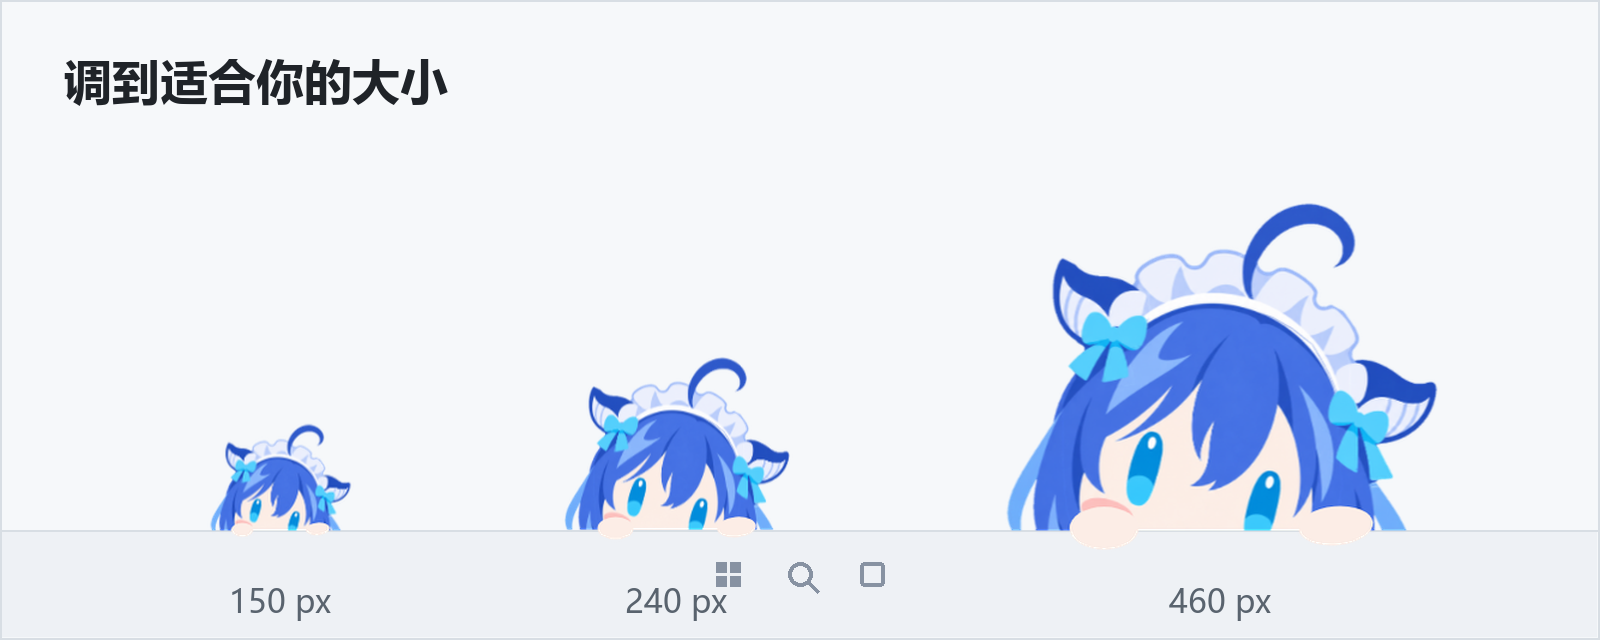
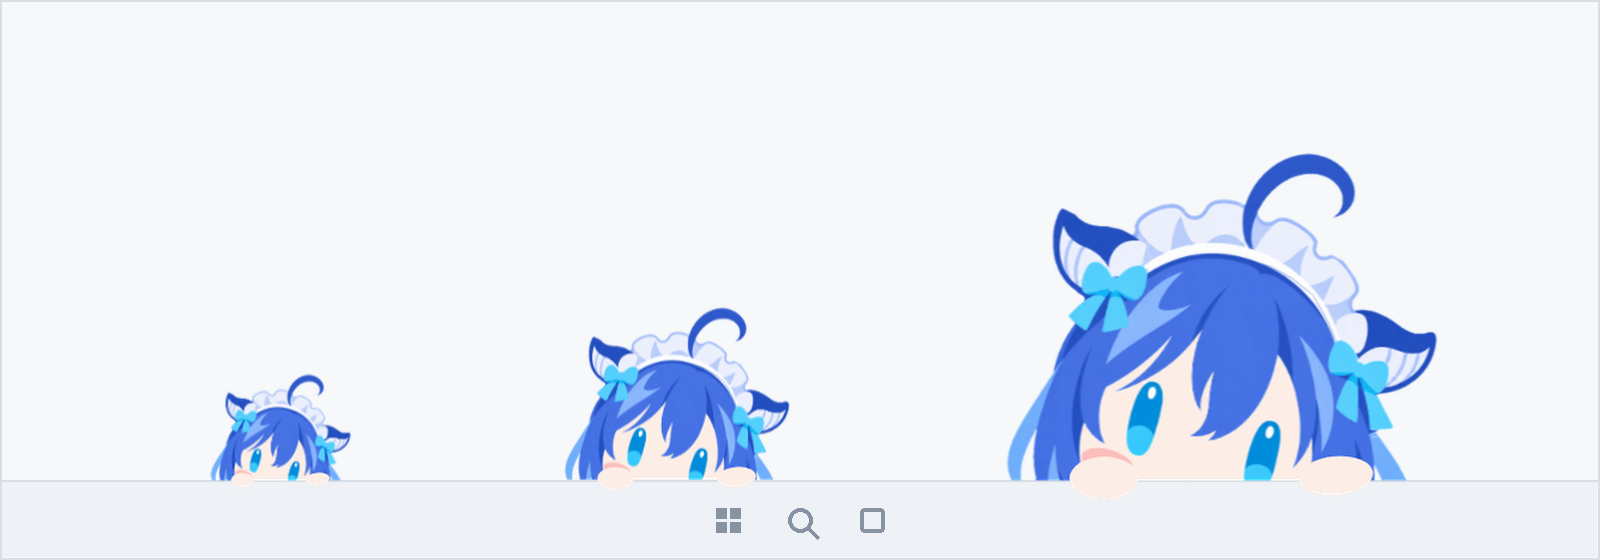
Remove explanatory overlays and simplify the README into a visual gallery

diff --git a/tools/docs/compose-readme.py b/tools/docs/compose-readme.py
@@ -1,110 +1,67 @@
-"""Compose README media from capture-readme.cjs; real renders, one visual grid."""
+"""Compose text-free README visuals from real application frames."""
 from pathlib import Path
 import json, shutil, sys
-from PIL import Image, ImageDraw, ImageFont
-ROOT=Path(__file__).resolve().parents[2]
-RAW=ROOT/'tools/docs/.work/readme-v2'
-BUILD=RAW/'build';BUILD.mkdir(parents=True,exist_ok=True)
-META=json.loads((RAW/'manifest.json').read_text(encoding='utf8'))
-L=Image.Resampling.LANCZOS
-BG='#f6f8fa';INK='#1f2328';MUTED='#59636e';EDGE='#d8dee4';BAR='#eef1f5'
-FONTS={}
-def font(size,bold=False):
- key=(size,bold)
- if key not in FONTS:FONTS[key]=ImageFont.truetype('C:/Windows/Fonts/'+('msyhbd.ttc' if bold else 'msyh.ttc'),size)
- return FONTS[key]
+from PIL import Image, ImageDraw
+ROOT=Path(__file__).resolve().parents[2];RAW=ROOT/'tools/docs/.work/readme-v2';BUILD=RAW/'build';BUILD.mkdir(parents=True,exist_ok=True)
+META=json.loads((RAW/'manifest.json').read_text(encoding='utf8'));L=Image.Resampling.LANCZOS
+BG='#f6f8fa';EDGE='#d8dee4';BAR='#eef1f5'
 def card(height,scale=1):
- im=Image.new('RGB',(800*scale,height*scale),BG)
- ImageDraw.Draw(im).rectangle((0,0,800*scale-1,height*scale-1),outline=EDGE,width=scale)
- return im
-def text(im,xy,value,size=24,bold=False,scale=1,fill=INK,anchor='la'):
- ImageDraw.Draw(im).text(tuple(round(x*scale) for x in xy),value,font=font(size*scale,bold),fill=fill,anchor=anchor)
+ im=Image.new('RGB',(800*scale,height*scale),BG);ImageDraw.Draw(im).rectangle((0,0,800*scale-1,height*scale-1),outline=EDGE,width=scale);return im
 def taskbar(im,top,scale=1):
- d=ImageDraw.Draw(im);w,h=im.size;y=round(top*scale)
- d.rectangle((scale,y,w-2*scale,h-2*scale),fill=BAR);d.line((scale,y,w-scale,y),fill=EDGE,width=scale)
- cx,cy=400*scale,y+22*scale
- # Restrained taskbar landmarks; leave the character and paws unobstructed.
- for ox in [-36,0,36]:
-  x=cx+ox*scale;r=6*scale
-  if ox==-36:
+ d=ImageDraw.Draw(im);w,h=im.size;y=round(top*scale);d.rectangle((scale,y,w-2*scale,h-2*scale),fill=BAR);d.line((scale,y,w-scale,y),fill=EDGE,width=scale)
+ for offset in [-36,0,36]:
+  x,yc=400*scale+offset*scale,y+20*scale;r=6*scale
+  if offset==-36:
    for dx in [-r,scale]:
-    for dy in [-r,scale]:d.rectangle((x+dx,cy+dy,x+dx+5*scale,cy+dy+5*scale),fill='#8792a2')
-  elif ox==0:
-   d.ellipse((x-r,cy-r,x+r,cy+r),outline='#8792a2',width=2*scale);d.line((x+4*scale,cy+4*scale,x+9*scale,cy+9*scale),fill='#8792a2',width=2*scale)
-  else:d.rounded_rectangle((x-r,cy-r,x+r,cy+r),radius=2*scale,outline='#8792a2',width=2*scale)
-def raw(record):
- im=Image.open(RAW/record['file']).convert('RGBA')
- return im.resize((record.get('width',420),record.get('height',420)),L)
+    for dy in [-r,scale]:d.rectangle((x+dx,yc+dy,x+dx+5*scale,yc+dy+5*scale),fill='#8792a2')
+  elif offset==0:d.ellipse((x-r,yc-r,x+r,yc+r),outline='#8792a2',width=2*scale);d.line((x+4*scale,yc+4*scale,x+9*scale,yc+9*scale),fill='#8792a2',width=2*scale)
+  else:d.rounded_rectangle((x-r,yc-r,x+r,yc+r),radius=2*scale,outline='#8792a2',width=2*scale)
+def raw(rec):return Image.open(RAW/rec['file']).convert('RGBA').resize((rec.get('width',420),rec.get('height',420)),L)
 def paste(im,source,xy,size=None):
  if size:source=source.resize(tuple(round(v) for v in size),L)
  im.paste(source,tuple(round(v) for v in xy),source)
-def cursor(im,x,y):
- d=ImageDraw.Draw(im);points=[(x,y),(x,y+18),(x+5,y+13),(x+8,y+20),(x+12,y+18),(x+9,y+11),(x+16,y+11)]
- d.polygon(points,fill=INK,outline='white',width=2)
+def cursor(im,x,y,click=None):
+ d=ImageDraw.Draw(im)
+ if click is not None:
+  radius=5+click*15;d.ellipse((x-radius,y-radius,x+radius,y+radius),outline='#6083dc',width=2)
+ d.polygon([(x,y),(x,y+18),(x+5,y+13),(x+8,y+20),(x+12,y+18),(x+9,y+11),(x+16,y+11)],fill='#1f2328',outline='white',width=2)
 def gif(frames,durations,name):
- # Shared palette prevents color flicker; a flat backdrop keeps animation compact.
  samples=[]
  for i in range(0,len(frames),max(1,len(frames)//12)):
-  f=frames[i].copy();f.thumbnail((400,180));samples.append(f)
- reference=Image.new('RGB',(400,180*len(samples)),BG)
- for i,f in enumerate(samples):reference.paste(f,(0,i*180))
- palette=reference.quantize(colors=255,method=Image.Quantize.MEDIANCUT)
- frames=[im.quantize(palette=palette,dither=Image.Dither.NONE) for im in frames]
+  im=frames[i].copy();im.thumbnail((400,180));samples.append(im)
+ ref=Image.new('RGB',(400,180*len(samples)),BG)
+ for i,im in enumerate(samples):ref.paste(im,(0,i*180))
+ palette=ref.quantize(colors=255,method=Image.Quantize.MEDIANCUT);frames=[im.quantize(palette=palette,dither=Image.Dither.NONE) for im in frames]
  frames[0].save(BUILD/name,save_all=True,append_images=frames[1:],duration=durations,loop=0,optimize=True,disposal=1)
  print(name,(BUILD/name).stat().st_size//1024,'KB',len(frames),'frames')
-def hero():
- clip=META['clips']['hero'];frames=[]
+def scene_clip(key,name):
+ clip=META['clips'][key];frames=[]
  for frame in clip['frames']:
-  im=card(320);taskbar(im,280)
-  pet=Image.open(RAW/frame['file']).convert('RGBA').resize((clip['width'],clip['height']),L)
-  paste(im,pet,(0,280-clip['ledge']))
-  text(im,(32,24),'跟随鼠标，轻轻挪动',26,True)
-  text(im,(32,66),'目光跟随 · 小手挪动 · 任务栏贴边',15,fill=MUTED)
-  cursor(im,round(frame['x']),round(frame['y']+280-clip['ledge']))
-  frames.append(im)
- gif(frames,[r['duration'] for r in clip['frames']],'hero.gif')
+  im=card(280);taskbar(im,240);source=raw({**clip,**frame});paste(im,source,(0,240-clip['ledge']));cursor(im,round(frame['x']),round(frame['y']+240-clip['ledge']),frame.get('click'));frames.append(im)
+ gif(frames,[f['duration'] for f in clip['frames']],name)
 def petting():
- frames=[];names=[('sleepy','放松闭眼','20%'),('playful','开心晃头','50%'),('subtle','轻轻回应','30%')]
+ frames=[]
  for n in range(100):
-  im=card(340);d=ImageDraw.Draw(im)
-  for i,(key,label,chance) in enumerate(names):
-   x=i*800/3
-   if i:d.line((round(x),28,round(x),312),fill=EDGE,width=1)
-   text(im,(x+32,24),label,22,True);text(im,(x+32,61),chance,16,fill=MUTED)
-   source=raw({**META['clips'][key],**META['clips'][key]['frames'][n]})
-   paste(im,source,(x+17,88),(232,232))
+  im=card(280)
+  for i,key in enumerate(['sleepy','playful','subtle']):paste(im,raw({**META['clips'][key],**META['clips'][key]['frames'][n]}),(i*800/3+5,8),(256,256))
   frames.append(im)
- gif(frames,[90]*len(frames),'petting.gif')
+ gif(frames,[90]*100,'petting.gif')
 def sleeping():
- S=2;im=card(340,S);taskbar(im,290,S);d=ImageDraw.Draw(im);d.line((400*S,28*S,400*S,270*S),fill=EDGE,width=S)
- for i,(key,label,desc) in enumerate([('droop','萎靡','停止注视，耳朵耷拉'),('sleep','睡眠','闭眼趴低，双手不动')]):
-  text(im,(i*400+32,24),label,24,True,S);text(im,(i*400+32,64),desc,15,scale=S,fill=MUTED)
-  source=raw(META['stills'][key]);k=.78*S
-  paste(im,source,((i*400+(400-420*.78)/2)*S,(290-400*.78)*S),(source.width*k,source.height*k))
+ S=2;im=card(280,S);taskbar(im,240,S)
+ for i,key in enumerate(['droop','sleep']):
+  source=raw(META['stills'][key]);k=.78*S;paste(im,source,((i*400+(400-420*.78)/2)*S,(240-400*.78)*S),(source.width*k,source.height*k))
  im.save(BUILD/'sleep.png',optimize=True)
 def sizes():
- S=2;im=card(320,S);taskbar(im,265,S)
- text(im,(32,24),'调到适合你的大小',24,True,S)
+ S=2;im=card(280,S);taskbar(im,240,S)
  for size,center in [(150,140),(240,338),(460,610)]:
-  rec=META['stills']['size'+str(size)];source=raw(rec);k=.6*S
-  paste(im,source,((center-rec['width']*.6/2)*S,(265-rec['ledge']*.6)*S),(source.width*k,source.height*k))
-  text(im,(center,300),str(size)+' px',16,scale=S,fill=MUTED,anchor='mm')
+  rec=META['stills']['size'+str(size)];source=raw(rec);k=.6*S;paste(im,source,((center-rec['width']*.6/2)*S,(240-rec['ledge']*.6)*S),(source.width*k,source.height*k))
  im.save(BUILD/'sizes.png',optimize=True)
 def menu():
- S=2;im=card(400,S);taskbar(im,350,S)
- text(im,(32,24),'右键就能调整',26,True,S);text(im,(32,66),'大小 · 动作 · 显示',15,scale=S,fill=MUTED)
- rec=META['stills']['size240'];pet=raw(rec)
- paste(im,pet,((220-rec['width']/2)*S,(350-rec['ledge'])*S),(pet.width*S,pet.height*S))
- panel=Image.open(RAW/META['stills']['menu']['file']).convert('RGBA');box=panel.getchannel('A').getbbox();panel=panel.crop(box)
- k=min(300*S/panel.width,278*S/panel.height)
- target=(round(panel.width*k),round(panel.height*k));xy=(round(768*S-target[0]),round(338*S-target[1]))
- paste(im,panel,xy,target);im.save(BUILD/'menu.png',optimize=True)
+ S=2;im=card(360,S);taskbar(im,310,S);rec=META['stills']['size240'];pet=raw(rec);paste(im,pet,((220-rec['width']/2)*S,(310-rec['ledge'])*S),(pet.width*S,pet.height*S))
+ panel=Image.open(RAW/META['stills']['menu']['file']).convert('RGBA');panel=panel.crop(panel.getchannel('A').getbbox());k=min(300*S/panel.width,270*S/panel.height);target=(round(panel.width*k),round(panel.height*k));paste(im,panel,(768*S-target[0],298*S-target[1]),target);im.save(BUILD/'menu.png',optimize=True)
 def console():
- source=Image.open(RAW/META['stills']['console']['file']).convert('RGB');S=2;w=736*S;h=round(w*source.height/source.width)
- im=card(round(h/S)+64,S);im.paste(source.resize((w,h),L),(32*S,32*S))
- ImageDraw.Draw(im).rectangle((32*S,32*S,32*S+w-1,32*S+h-1),outline=EDGE,width=S)
- im.save(BUILD/'console.png',optimize=True)
-hero();petting();sleeping();sizes();menu();console()
+ source=Image.open(RAW/META['stills']['console']['file']).convert('RGB');S=2;w=736*S;h=round(w*source.height/source.width);im=card(round(h/S)+64,S);im.paste(source.resize((w,h),L),(32*S,32*S));ImageDraw.Draw(im).rectangle((32*S,32*S,32*S+w-1,32*S+h-1),outline=EDGE,width=S);im.save(BUILD/'console.png',optimize=True)
+scene_clip('hero','hero.gif');scene_clip('interaction','interaction.gif');petting();sleeping();sizes();menu();console()
 if '--install' in sys.argv:
- for name in ['hero.gif','petting.gif','sleep.png','sizes.png','menu.png','console.png']:shutil.copyfile(BUILD/name,ROOT/'docs'/name)
- print('Installed README media.')
+ for name in ['hero.gif','interaction.gif','petting.gif','sleep.png','sizes.png','menu.png','console.png']:shutil.copyfile(BUILD/name,ROOT/'docs'/name)
+ print('Installed text-free README media.')

diff --git a/README.md b/README.md
@@ -1,78 +1,27 @@
 <div align="center">
 
-<img src="assets/icon.png" width="64" height="64" alt="蓝色肥鱼头像">
+<img src="assets/icon.png" width="64" height="64" alt="蓝色肥鱼">
 
 # 蓝色肥鱼 · Bluefish
 
-**趴在 Windows 任务栏上的桌面小角色。**
+Windows 任务栏桌宠
 
-会跟着光标看，摸头时晃晃脑袋，被冷落久了也会睡着。
-
-[**下载 Windows 版**](https://github.com/fupangzhu/bluefish-desktop/releases/latest) · [动作演示](#互动) · [使用方法](#开始使用) · [从源码运行](#从源码运行)
-
-Windows 10 / 11 x64 · 透明窗口 · 托盘常驻
+[**下载 Windows 版**](https://github.com/fupangzhu/bluefish-desktop/releases/latest) · [使用说明](docs/usage.md) · [更新记录](docs/release-notes.md)
 
 </div>
 
-<img src="docs/hero.gif" width="100%" alt="角色趴在任务栏上，眼睛跟随光标，小手轻抬后带着脑袋向两侧挪动">
+<img src="docs/hero.gif" width="100%" alt="鼠标跟随与任务栏挪动演示">
 
 ## 互动
 
-把鼠标移到脑袋附近，来回揉一揉。每次会随机选一种反应，连续揉头时保持同一种。
+<img src="docs/interaction.gif" width="100%" alt="揉头、入睡与点击唤醒的连贯演示">
 
-<img src="docs/petting.gif" width="100%" alt="三种揉头反应并排演示：放松闭眼、睁眼晃头和摆呆毛、轻微摇晃">
+## 控制台
 
-- **20% · 放松闭眼**：慢慢闭眼、停稳；离开后等 2–5 秒，再睁眼恢复移动。
-- **50% · 开心晃头**：睁着眼睛晃脑袋，呆毛跟着轻摆。
-- **30% · 轻轻回应**：小幅摇晃，反应更安静。
+<img src="docs/console.png" width="100%" alt="角色控制台">
 
-捏住呆毛拖动，会先拉直、再回弹；点击哪只耳朵，哪只就快速抖一两下。
-
-## 状态
-
-光标久停或离远后，她会停止注视，渐渐萎靡。**2 分钟**未互动后开始随机入睡，最迟 **10 分钟**一定睡着。
-
-<img src="docs/sleep.png" width="100%" alt="萎靡与睡眠姿态对比：睡眠时头部更低、双眼闭合、耳朵更垂，双手仍在同一条任务栏上">
-
-睡着后趴得更低，耳朵更耷拉，小手仍搭在任务栏上。只有点击角色才会唤醒。靠近或揉动不会打扰睡眠；醒来时随机播放慢慢醒来、轻轻伸展或左右张望，先睁眼再起身。
-
-## 开始使用
-
-1. 打开 [Releases](https://github.com/fupangzhu/bluefish-desktop/releases/latest)，下载 `bluefish-setup-*.exe`。
-2. 双击安装，启动后常驻托盘；也可以下载便携 ZIP，完整解压后运行 `蓝色肥鱼.exe`。
-3. 拖到任务栏边缘即可贴边，向上拖动可切换为悬浮头像。
-
-上方演示对应 **v0.6.6**，包含随机揉头、闲置睡眠和点击唤醒。安装包与便携版的版本及更新内容见 [Releases](https://github.com/fupangzhu/bluefish-desktop/releases/latest)。
-
-| 操作 | 方法 |
-| :--- | :--- |
-| 调整大小 | 右键滑块，或在角色上按住 `Ctrl` 滚动鼠标滚轮 |
-| 移动位置 | 贴边时左右拖动；向上拖成悬浮，拖回底部自动吸附 |
-| 显示 / 隐藏 | 托盘菜单，或 `Ctrl` + `Shift` + `F10` |
-| 回到原位 | `Ctrl` + `Shift` + `F11` |
-| 退出程序 | 右键菜单中的电源按钮 |
-
-## 调整与控制
-
-大小支持 **150–460** 无级调节，贴边与悬浮共用同一套动作。
-
-<img src="docs/sizes.png" width="100%" alt="150、240、460 三种大小的角色搭在同一条任务栏上，按实际比例展示">
-
-### 右键菜单
-
-快速调整大小、切换鼠标跟随与待机动作，也可以隐藏角色或打开控制台。
-
-<img src="docs/menu.png" width="100%" alt="角色旁的右键菜单，包含大小滑块、表情动作、跟随和显示控制">
-
-### 控制台
-
-实时预览角色，调节左右转头、抬头低头和侧向倾斜；也可以导入动作 JSON、单独查看 PNG 图层。
-
-<img src="docs/console.png" width="100%" alt="黑白控制台，左侧实时角色预览，右侧为大小、三个角度、动作与模式控制">
-
-## 从源码运行
-
-需要 Windows 10 / 11 x64 和 Node.js 22 或更高版本。
+<details>
+<summary>从源码运行</summary>
 
 ```powershell
 git clone https://github.com/fupangzhu/bluefish-desktop.git
@@ -81,12 +30,6 @@ npm ci
 npm start
 ```
 
-`npm run preview` 可打开浏览器预览；`npm test` 运行逻辑测试。
+</details>
 
-角色使用固定坐标的分层 PNG 和 WebGL 网格绑定驱动，不依赖 Live2D。
-
-| 文档 | 内容 |
-| :--- | :--- |
-| [开发说明](DEVELOPMENT.md) | 项目结构、调试、交互回归与 Windows 打包 |
-| [素材制作](tools/docs/README.md) | 从真实界面重新生成本页图片和动画 |
-| [更新记录](docs/release-notes.md) | 各版本的动作与功能变化 |
+[开发文档](DEVELOPMENT.md) · [素材制作](tools/docs/README.md)

diff --git a/docs/usage.md b/docs/usage.md
@@ -1,0 +1,76 @@
+# 使用说明
+
+## 互动
+
+把鼠标移到脑袋附近，来回揉一揉。每次会随机选一种反应，连续揉头时保持同一种。
+
+<img src="petting.gif" width="100%" alt="三种揉头反应并排演示：放松闭眼、睁眼晃头和摆呆毛、轻微摇晃">
+
+- **20% · 放松闭眼**：慢慢闭眼、停稳；离开后等 2–5 秒，再睁眼恢复移动。
+- **50% · 开心晃头**：睁着眼睛晃脑袋，呆毛跟着轻摆。
+- **30% · 轻轻回应**：小幅摇晃，反应更安静。
+
+捏住呆毛拖动，会先拉直、再回弹；点击哪只耳朵，哪只就快速抖一两下。
+
+## 状态
+
+光标久停或离远后，她会停止注视，渐渐萎靡。**2 分钟**未互动后开始随机入睡，最迟 **10 分钟**一定睡着。
+
+<img src="sleep.png" width="100%" alt="萎靡与睡眠姿态对比：睡眠时头部更低、双眼闭合、耳朵更垂，双手仍在同一条任务栏上">
+
+睡着后趴得更低，耳朵更耷拉，小手仍搭在任务栏上。只有点击角色才会唤醒。靠近或揉动不会打扰睡眠；醒来时随机播放慢慢醒来、轻轻伸展或左右张望，先睁眼再起身。
+
+## 开始使用
+
+1. 打开 [Releases](https://github.com/fupangzhu/bluefish-desktop/releases/latest)，下载 `bluefish-setup-*.exe`。
+2. 双击安装，启动后常驻托盘；也可以下载便携 ZIP，完整解压后运行 `蓝色肥鱼.exe`。
+3. 拖到任务栏边缘即可贴边，向上拖动可切换为悬浮头像。
+
+上方演示对应 **v0.6.6**，包含随机揉头、闲置睡眠和点击唤醒。安装包与便携版的版本及更新内容见 [Releases](https://github.com/fupangzhu/bluefish-desktop/releases/latest)。
+
+| 操作 | 方法 |
+| :--- | :--- |
+| 调整大小 | 右键滑块，或在角色上按住 `Ctrl` 滚动鼠标滚轮 |
+| 移动位置 | 贴边时左右拖动；向上拖成悬浮，拖回底部自动吸附 |
+| 显示 / 隐藏 | 托盘菜单，或 `Ctrl` + `Shift` + `F10` |
+| 回到原位 | `Ctrl` + `Shift` + `F11` |
+| 退出程序 | 右键菜单中的电源按钮 |
+
+## 调整与控制
+
+大小支持 **150–460** 无级调节，贴边与悬浮共用同一套动作。
+
+<img src="sizes.png" width="100%" alt="150、240、460 三种大小的角色搭在同一条任务栏上，按实际比例展示">
+
+### 右键菜单
+
+快速调整大小、切换鼠标跟随与待机动作，也可以隐藏角色或打开控制台。
+
+<img src="menu.png" width="100%" alt="角色旁的右键菜单，包含大小滑块、表情动作、跟随和显示控制">
+
+### 控制台
+
+实时预览角色，调节左右转头、抬头低头和侧向倾斜；也可以导入动作 JSON、单独查看 PNG 图层。
+
+<img src="console.png" width="100%" alt="黑白控制台，左侧实时角色预览，右侧为大小、三个角度、动作与模式控制">
+
+## 从源码运行
+
+需要 Windows 10 / 11 x64 和 Node.js 22 或更高版本。
+
+```powershell
+git clone https://github.com/fupangzhu/bluefish-desktop.git
+cd bluefish-desktop
+npm ci
+npm start
+```
+
+`npm run preview` 可打开浏览器预览；`npm test` 运行逻辑测试。
+
+角色使用固定坐标的分层 PNG 和 WebGL 网格绑定驱动，不依赖 Live2D。
+
+| 文档 | 内容 |
+| :--- | :--- |
+| [开发说明](../DEVELOPMENT.md) | 项目结构、调试、交互回归与 Windows 打包 |
+| [素材制作](../tools/docs/README.md) | 从真实界面重新生成本页图片和动画 |
+| [更新记录](release-notes.md) | 各版本的动作与功能变化 |

diff --git a/docs/superpowers/specs/2026-11-04-readme-design.md b/docs/superpowers/specs/2026-11-04-readme-design.md
@@ -1,13 +1,7 @@
 # GitHub 首页排版
 
-目标：以真实运行的角色与控制台为素材，统一首页的文字、图片、间距和视觉对齐。
+以最新用户要求为准：首页仅保留名称、下载入口、简短分区标题和三张主图。大段功能与操作说明移至可选的使用说明。
 
-采用纵向单栏：品牌与入口、任务栏跟随演示、揉头反应、闲置睡眠、下载与操作、控制台、源码说明。固定两栏表格仅用于简短操作映射，避免窄屏图片并排造成溢出。
+所有媒体不叠加标题、百分比、尺寸标签或说明文字；截图内的真实控制台组件保留。演示统一中性背景、800px 展示宽度和同一任务栏基线。以一段连贯的揉头、睡眠、点击唤醒动图替代分散的头像与睡眠图。
 
-所有主要图片使用同一外框宽度和中性色背景，内边距 32px；PNG 使用双倍分辨率，GIF 使用 800px 原生宽度。三种揉头状态以一个合成动画呈现，相同画布、同一基线、清晰标题。睡眠对比使用同一任务栏高度，小手对齐。
-
-保留角色原有颜色；素材来自现有程序的真实渲染。文档改版不改角色资产。用户补充的点击唤醒要求同时纳入：睡眠只接受左键点击，50% 慢慢醒来、30% 轻轻伸展、20% 左右张望，双眼睁开后播放。
-
-下载入口区分 GitHub 当前发布版 v0.5.0 与 main 源码 v0.6.6，不暗示旧安装包已含新功能。
-
-验证：GitHub 渲染后的标题、链接、图片加载；桌面及 375px 窄屏的内容边缘、图片宽度、表格溢出；检查动画首尾与静态对齐。最终推送 main。
+验证桌面、375px 窄屏和深色模式的边缘对齐与图片加载，最终与 v0.6.6 Release 一起更新。

diff --git a/tools/docs/README.md b/tools/docs/README.md
@@ -1,6 +1,6 @@
 # README 素材生成
 
-首页媒体来自真实运行的角色与界面，统一使用 800px 展示宽度、中性背景、32px 内边距和相同的任务栏基线。PNG 以双倍分辨率保存，GIF 使用共享调色板以减少闪色。
+首页媒体来自真实运行的角色与界面，统一使用 800px 展示宽度、中性背景、相同的背景、画幅和任务栏基线，不叠加标题、标签或说明文字。PNG 以双倍分辨率保存，GIF 使用共享调色板以减少闪色。
 
 ## 重新生成
 
@@ -16,12 +16,12 @@ python tools/docs/compose-readme.py --install
 | 文件 | 内容 |
 | :--- | :--- |
 | `docs/hero.gif` | 鼠标跟随与任务栏挪动 |
-| `docs/petting.gif` | 三种揉头反应，相同画布并排展示 |
+| `docs/interaction.gif` | 揉头、睡眠与点击唤醒的连续演示 |
 | `docs/sleep.png` | 萎靡与趴睡姿势，相同任务栏高度 |
 | `docs/sizes.png` | 150 / 240 / 460 按真实比例展示 |
 | `docs/menu.png` | 角色和右键菜单 |
 | `docs/console.png` | 完整控制台预览与调节区 |
 
-`capture-readme.cjs` 控制真实应用并逐帧截图；`compose-readme.py` 负责标题、背景、边距和基线。演示中的揉头分支及入睡时机由抓帧脚本指定，产品中的随机概率保持不变。
+`capture-readme.cjs` 控制真实应用并逐帧截图；`compose-readme.py` 负责背景、画幅、边距和基线。演示中的揉头分支及入睡时机由抓帧脚本指定，产品中的随机概率保持不变。
 
 旧版 `capture.cjs` / `compose.py` 仍可复现历史演示；首页更新请使用上面的新脚本。

diff --git a/DEVELOPMENT.md b/DEVELOPMENT.md
@@ -139,6 +139,7 @@ git push origin main
 
 | 版本 | 提交 | 资产 |
 |---|---|---|
+| v0.6.6 | tag `v0.6.6` | 随机揉头 / 闲置睡眠 / 点击唤醒；便携 zip / 图层包 / 预览 gif / 安装包 / SHA256SUMS |
 | v0.5.0 | tag `v0.5.0` | 呆毛牵拉 / 独立折耳 / 待机扑耳 / 情绪耳姿态；便携 zip / 图层次包 / 预览 gif / 安装包 / SHA256SUMS |
 | v0.4.0 | `bf0ad6b` | 便携 zip / 图层次包 / 预览 gif / 安装包 / SHA256SUMS |
 | v0.2.1 | `52e080d` | 旧版（CI 构建，2026-11-03） |

diff --git a/docs/superpowers/plans/2026-11-04-readme-layout.md b/docs/superpowers/plans/2026-11-04-readme-layout.md
@@ -23,3 +23,5 @@
 - [x] 审查改动，提交并推送 main，确认远程内容。
 
 补充交互已实现：睡眠只响应左键点击，三组随机醒来动作；97 项逻辑测试与 Electron 实际点击回归通过。
+
+最终视觉修订：主页保留下载入口和三张主图；所有后加的图内文字移除；使用说明单独存放；统一背景和画幅，连续互动替代分散截图。桌面、375px 与深色模式验证通过。
